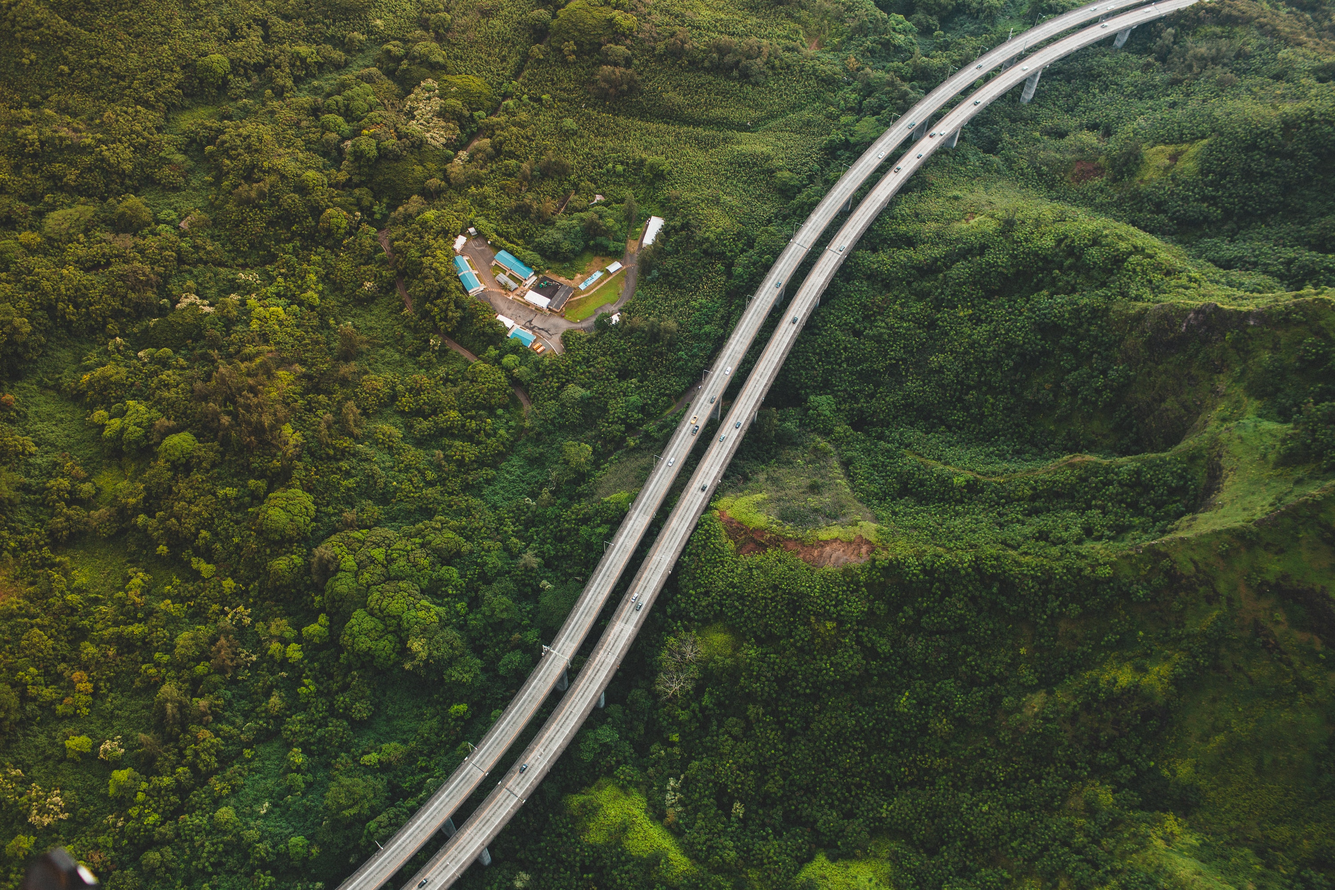
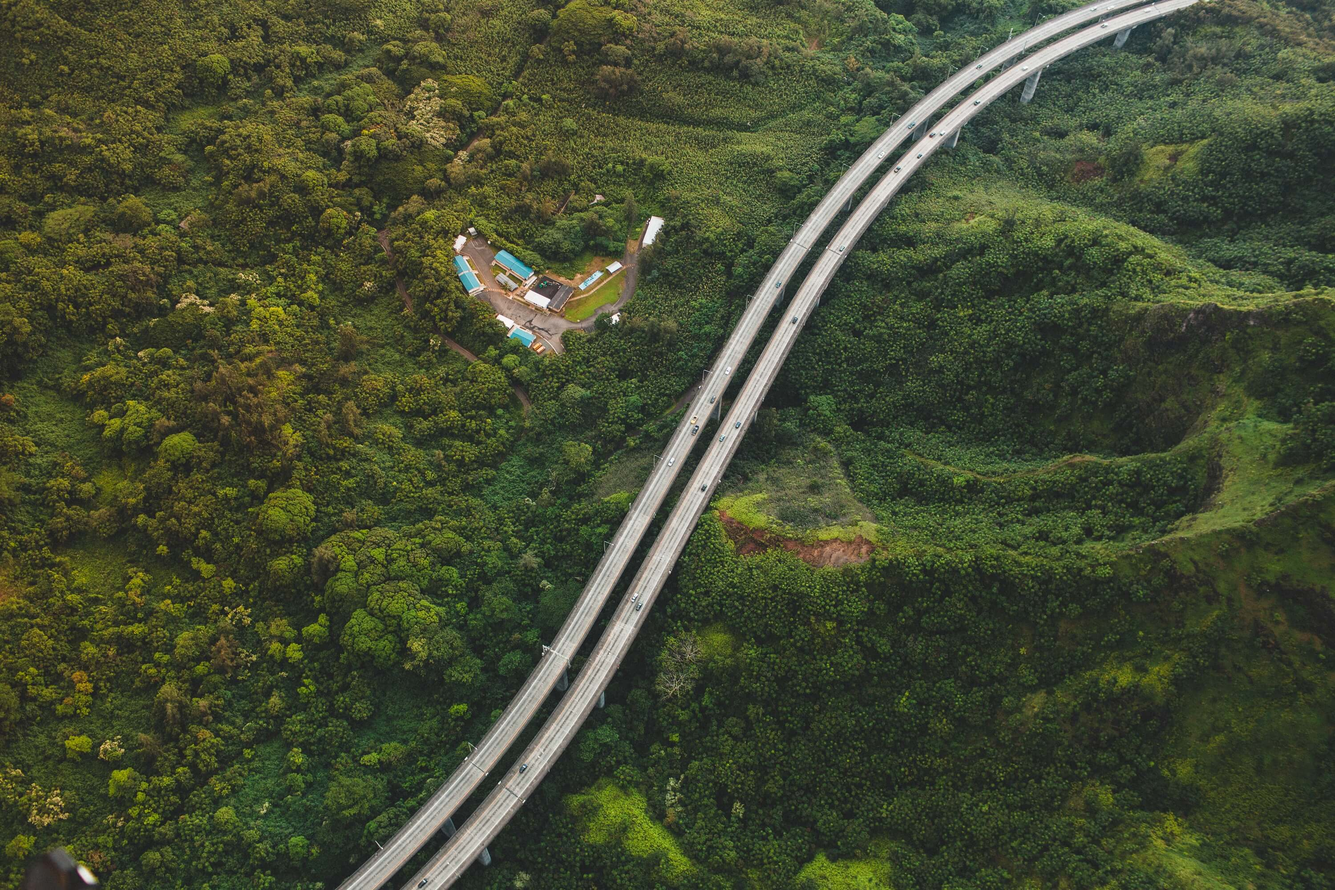
updates and asset compression

Changed region(s): [[0.186, 0.341, 0.217, 0.372]]

diff --git a/hidden.html b/hidden.html
@@ -42,8 +42,8 @@
       <div class="max-width">
         <div class="row middle">
           <div class="sm-3">
-            <img class="header-logo" src="assets/images/logo-1.png"/>
-            <img class="header-logo-dark" style="display: none;" src="assets/images/logo-1-dark.png"/>
+            <img class="header-logo" src="assets/images/logo-original.png"/>
+            <img class="header-logo-dark" style="display: none;" src="assets/images/logo-original-dark.png"/>
           </div>
           <div class="sm-9 right-text">
             <div class="link-container inline">
@@ -121,7 +121,7 @@
   <div id="services">
     <div class="sm-hero angle-both background-image" style="background-image: url('/assets/images/aerial-buildings-2.jpg');">
     </div>
-    <div class="max-width">
+    <div class="max-width" style="background-image: url('/assets/images/tripod-full.png'); background-repeat: no-repeat; background-size: 100%; background-position: center;">
       <div class="lg-top-margin lg-bottom-margin">
         <h2 class="sm-padding">Services</h2>
         <div class="row">
@@ -134,7 +134,6 @@
             <h5 class="xs-padding no-left-padding grey-color">And more!</h5>
           </div>
           <div class="xs-12 sm-6">
-            <img class="full-width" src="/assets/images/tripod.png"/>
           </div>
         </div>
       </div>
